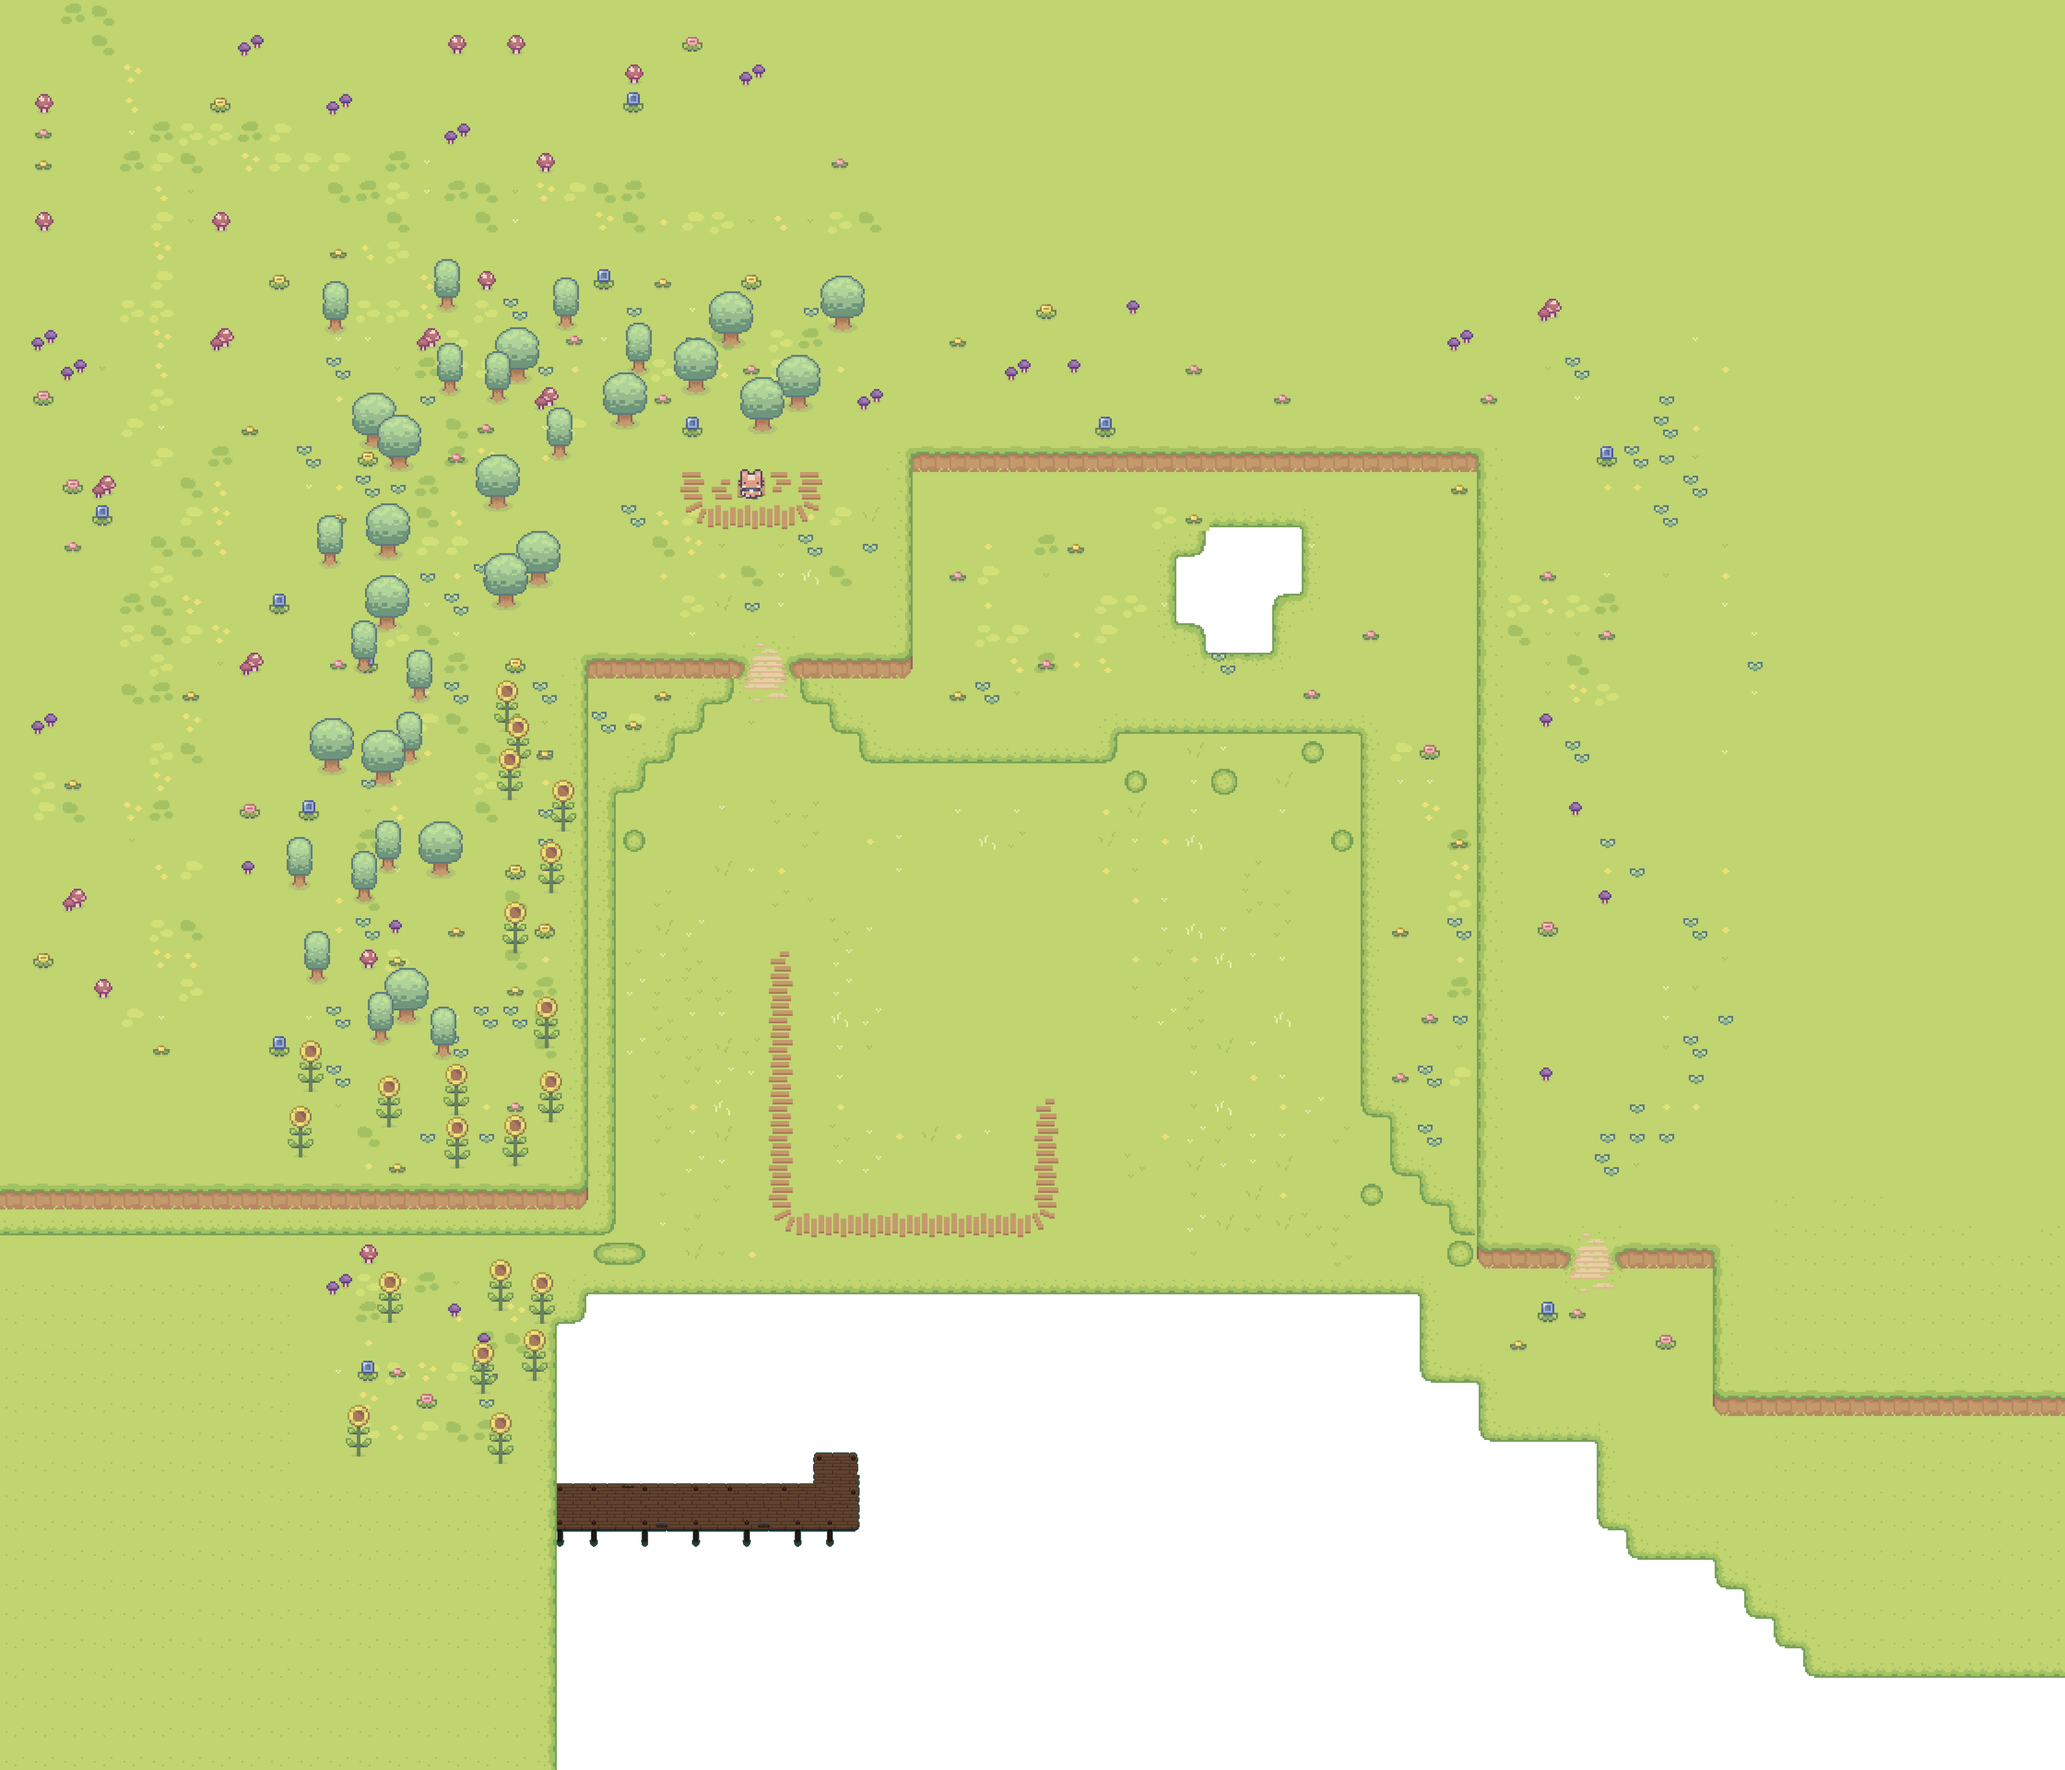
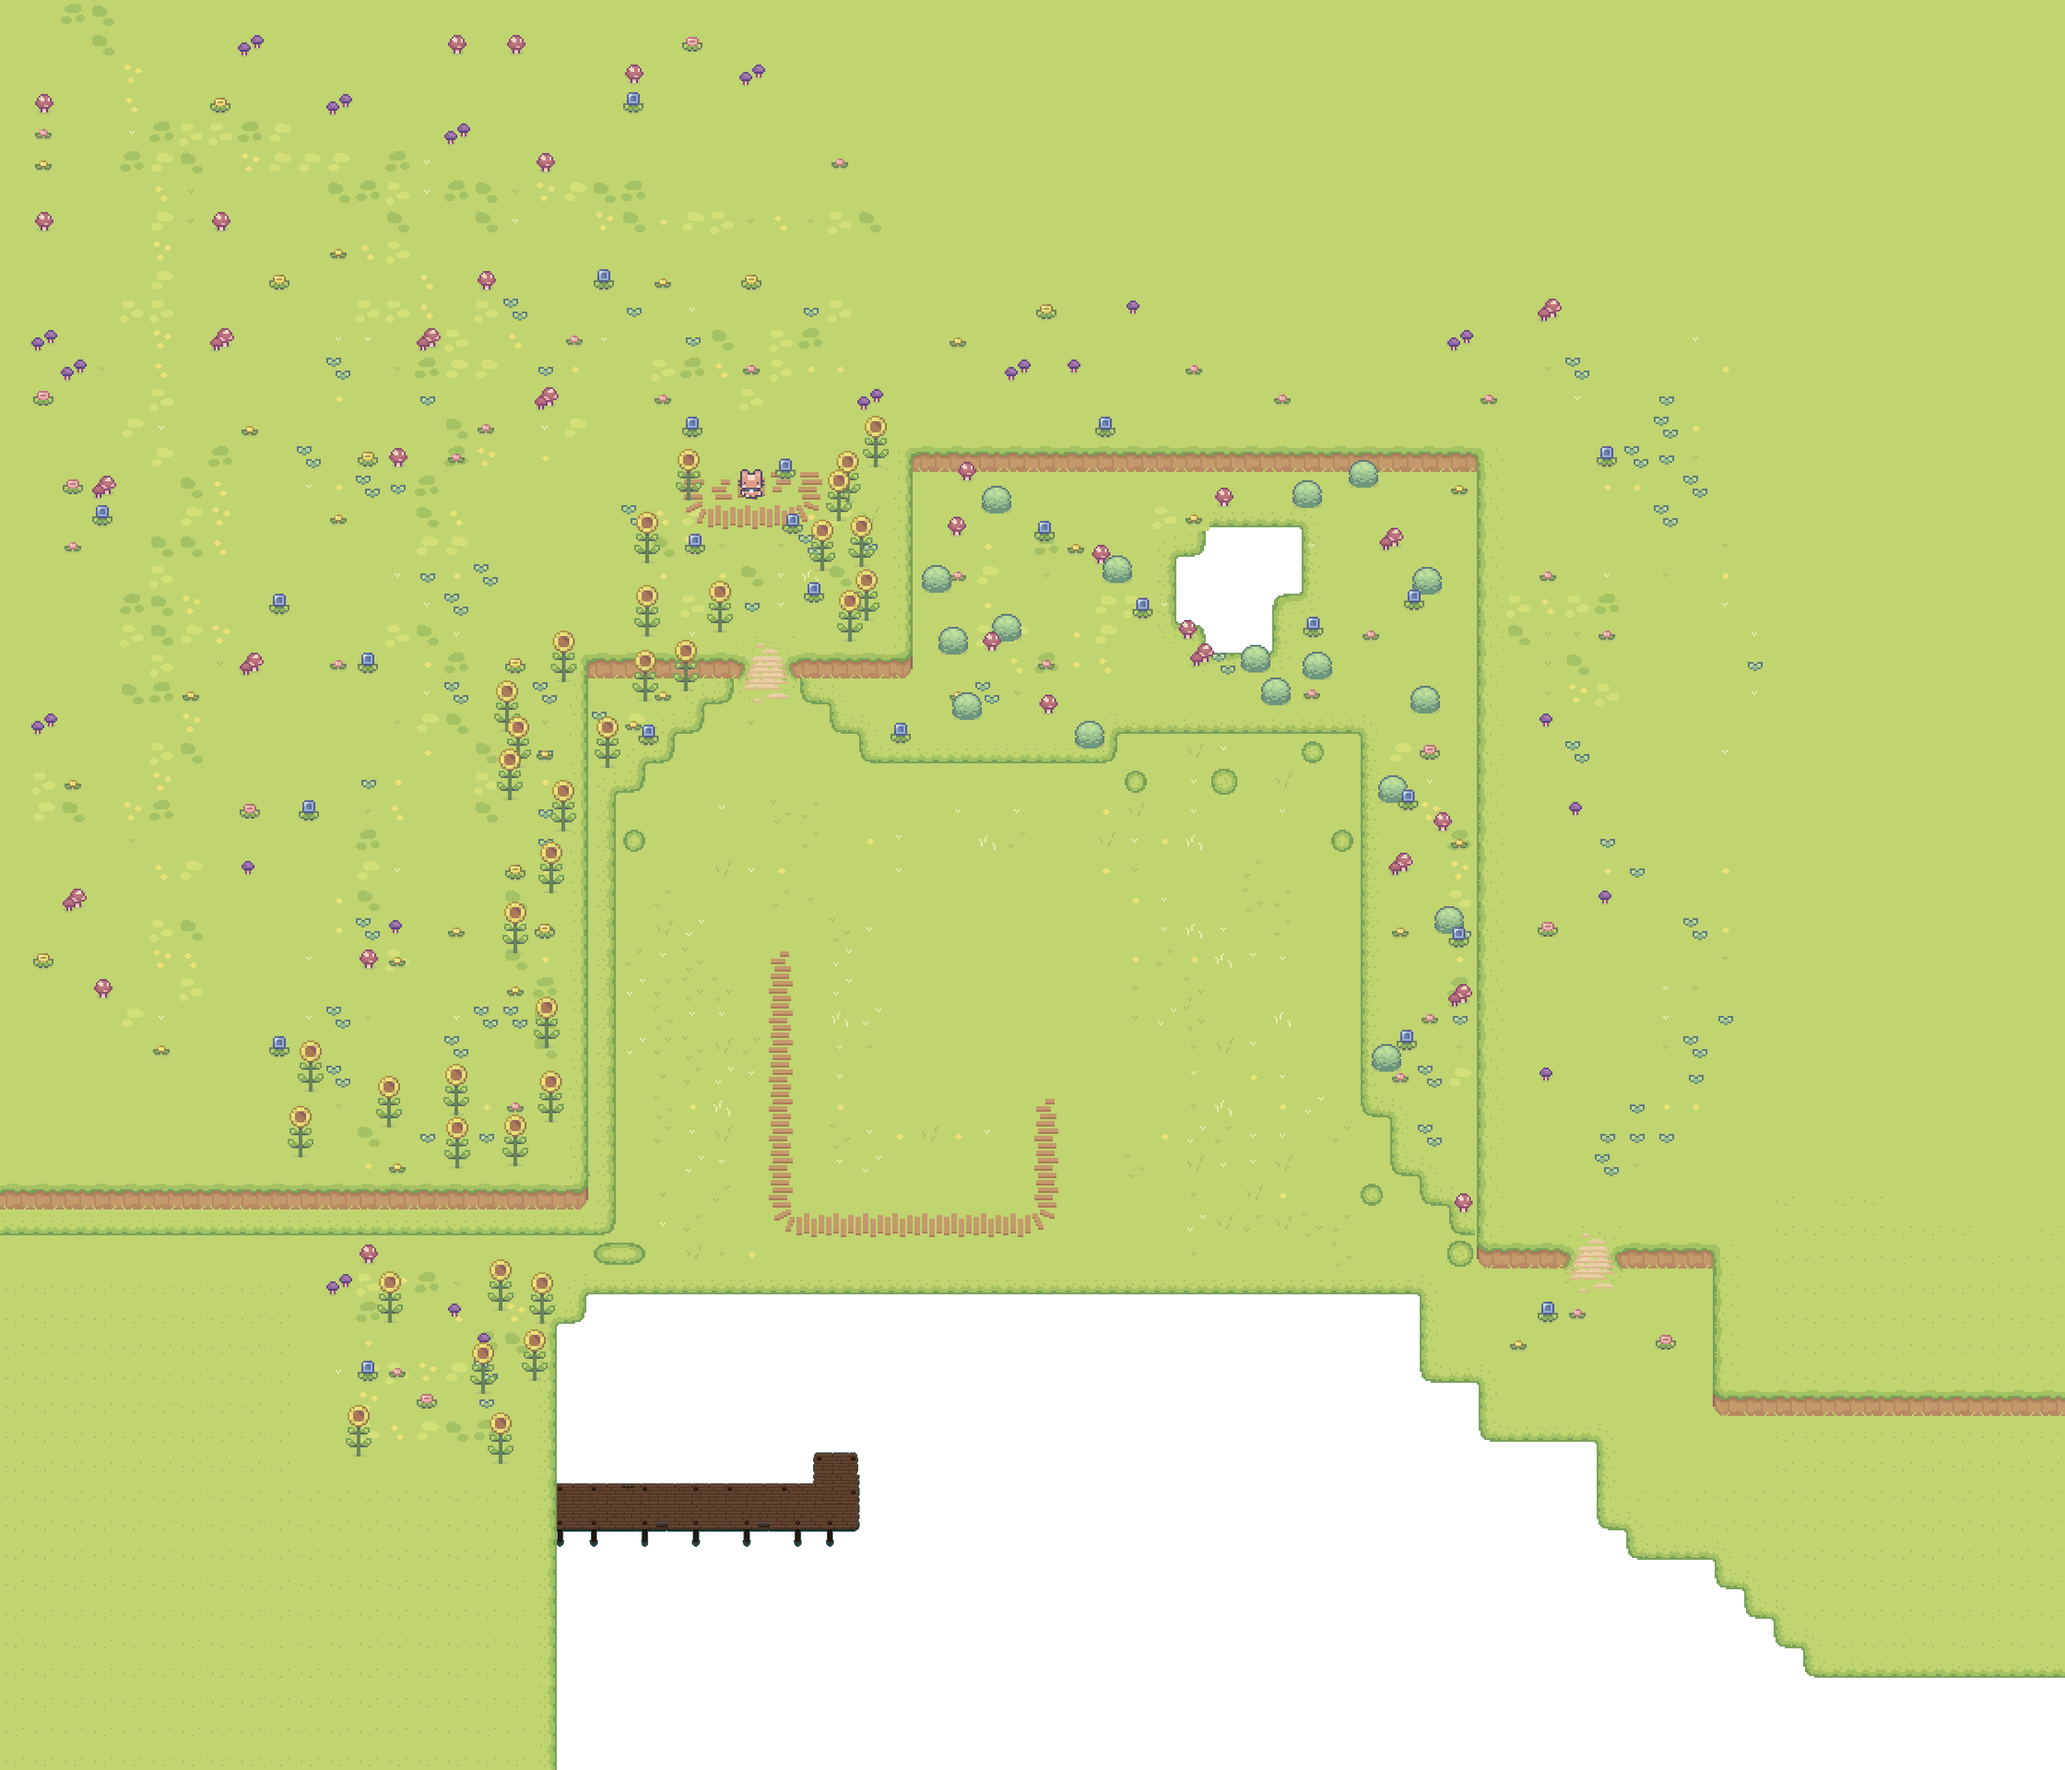
Added more constants, can now return to original map.

diff --git a/code/player.py b/code/player.py
@@ -256,12 +256,17 @@ class Player(pygame.sprite.Sprite):
                 collided_interaction_sprites = pygame.sprite.spritecollide(
                     self, self.interaction, False)
                 if collided_interaction_sprites:
-                    if collided_interaction_sprites[0].name == 'Trader':
-                        self.toggle_shop()
-                    elif collided_interaction_sprites[0].name == 'Forest':
-                        self.set_map_level(1)
-                    else:
-                        self.auto_save_night()
+                    map_no = self.get_map_level()
+                    if map_no == MAP_NUMBERS["Starting"]:
+                        if collided_interaction_sprites[0].name == 'Trader':
+                            self.toggle_shop()
+                        elif collided_interaction_sprites[0].name == 'Forest':
+                            self.set_map_level(MAP_NUMBERS["Forest"])
+                        else:
+                            self.auto_save_night()
+                    elif map_no == MAP_NUMBERS["Forest"]:
+                        if collided_interaction_sprites[0].name == "Starting":
+                            self.set_map_level(MAP_NUMBERS["Starting"])
 
     def get_status(self):
         # idle

diff --git a/code/level.py b/code/level.py
@@ -241,6 +241,10 @@ class Level:
                                detection_area=self.mob_area["slime"],
                                reduce_player_hp=self.player.reduce_hp)
 
+                if obj.name == 'Starting':
+                    Interaction((obj.x, obj.y), (obj.width, obj.height),
+                                self.interaction_sprites, obj.name)
+
             # world
             Generic(
                 pos=(0, 0),

diff --git a/code/menu.py b/code/menu.py
@@ -1,10 +1,12 @@
+from typing import Callable
+
 import pygame
 from settings import *
 from timer import Timer
 from player import Player
 
 class Menu:
-    def __init__(self, player: Player, toggle_menu: bool):
+    def __init__(self, player: Player, toggle_menu: Callable):
 
         # general setup
         self.player = player
